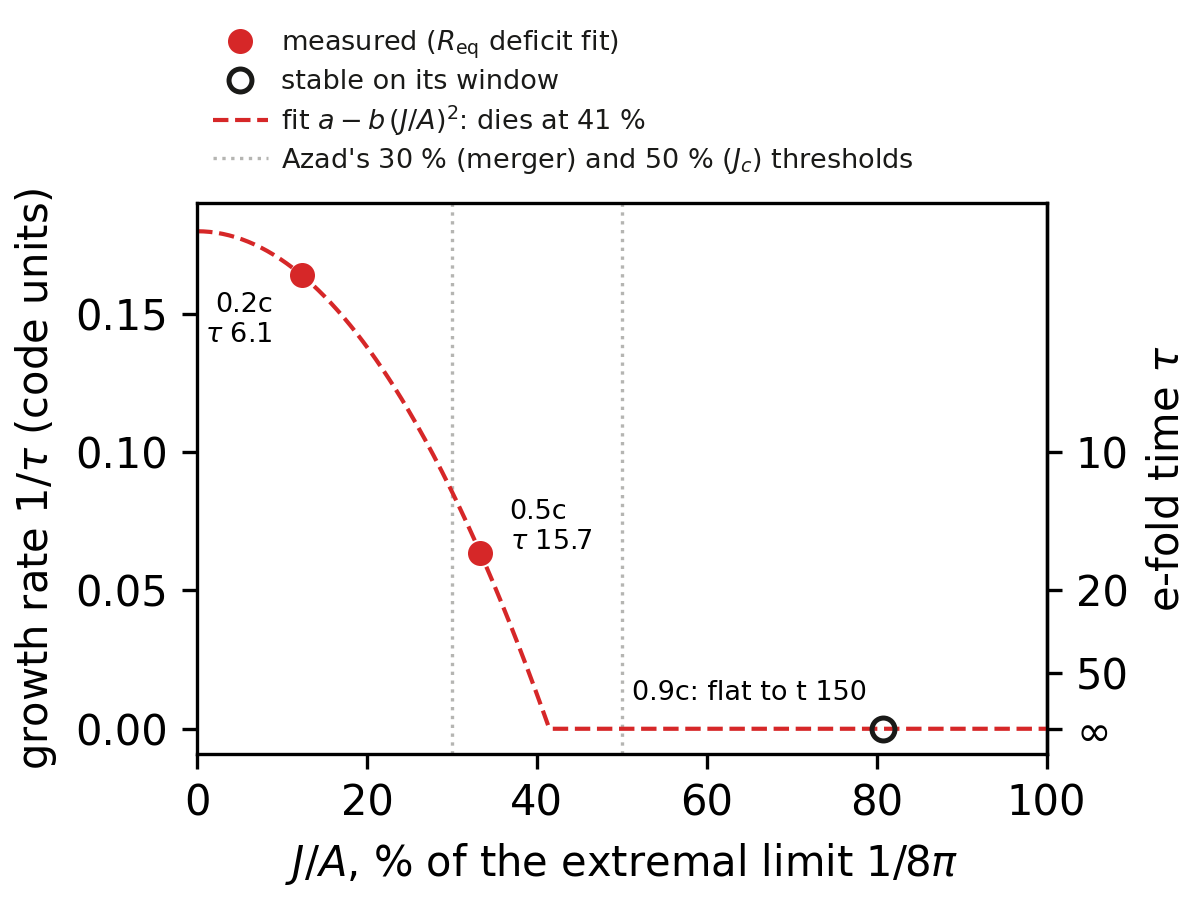
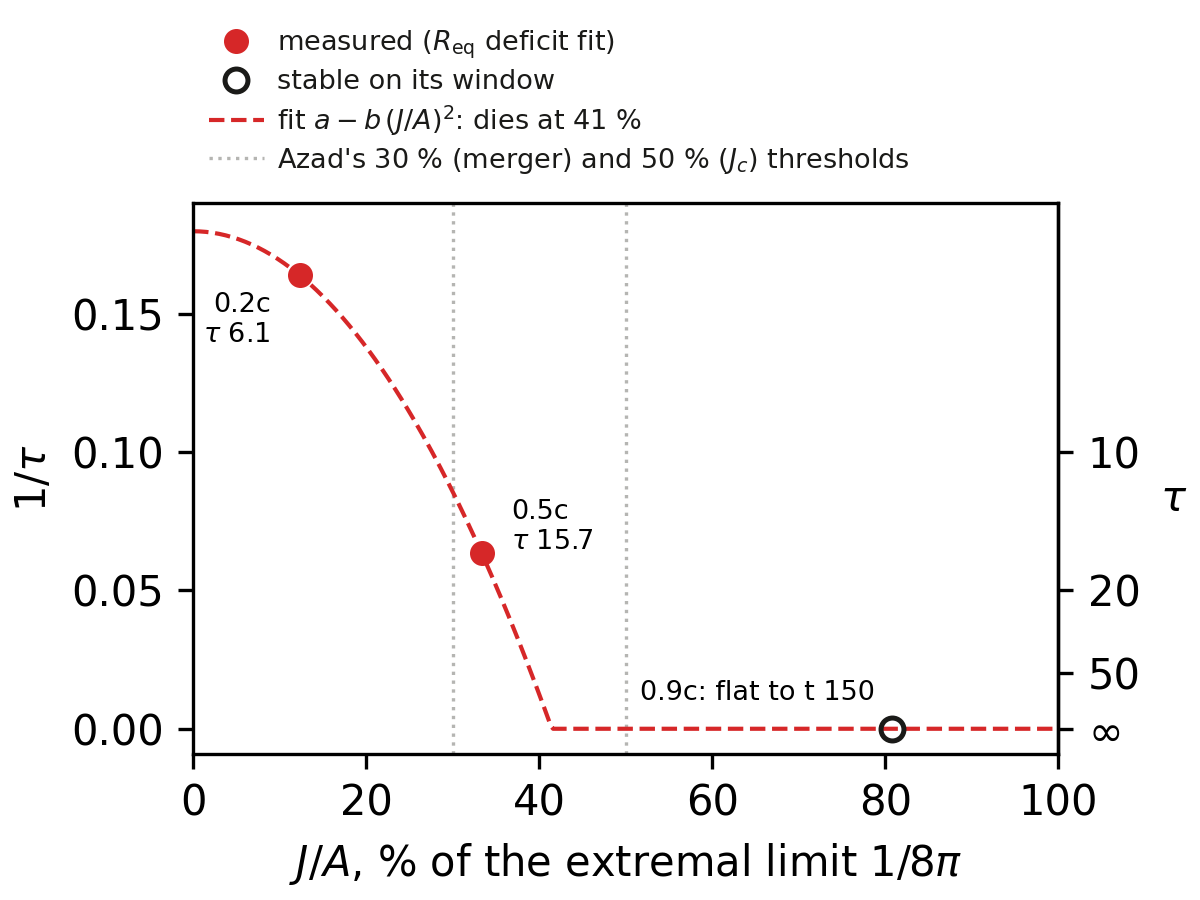
Spinning: instability curve's axis labels cut to 1/tau and tau

diff --git a/grteclyn-wrapper/src/grteclyn_wrapper/visualisation/spinning_wormhole/plot_instability_curve.py b/grteclyn-wrapper/src/grteclyn_wrapper/visualisation/spinning_wormhole/plot_instability_curve.py
@@ -170,13 +170,13 @@ def draw(points, pal) -> None:
     ax.set_xlim(0.0, 100.0)
     ax.set_ylim(-0.009, 0.19)
     ax.set_xlabel(r"$J/A$, % of the extremal limit $1/8\pi$")
-    ax.set_ylabel(r"growth rate $1/\tau$ (code units)")
+    ax.set_ylabel(r"$1/\tau$")
     # The same scale relabelled in tau on the right edge: one axis, two units.
     right = ax.secondary_yaxis("right")
     taus = (5.0, 10.0, 20.0, 50.0)
     right.set_yticks([0.0] + [1.0 / v for v in taus])
     right.set_yticklabels([r"$\infty$"] + [f"{v:g}" for v in taus])
-    right.set_ylabel(r"e-fold time $\tau$")
+    right.set_ylabel(r"$\tau$", rotation=0, labelpad=8.0)
     entries = [
         (mlines.Line2D([], [], marker="o", ls="none", ms=5, color=pal["measured"]),
          "measured ($R_{\\mathrm{eq}}$ deficit fit)"),
